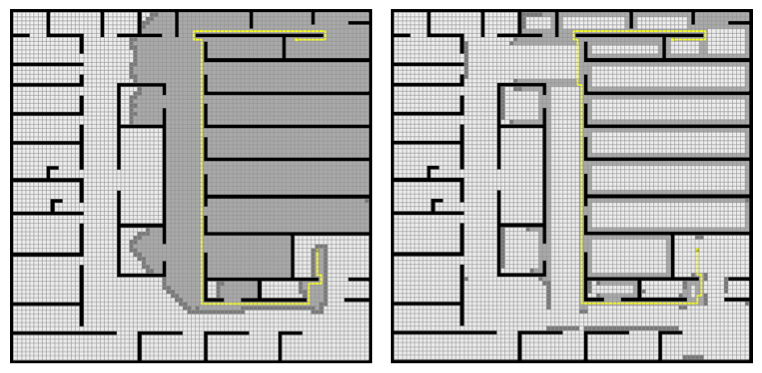
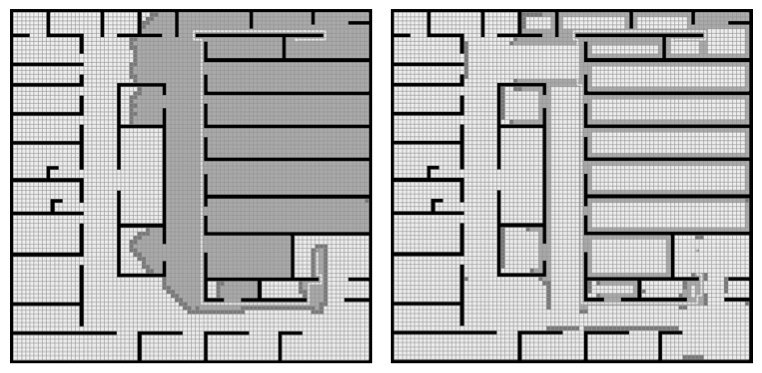
Other small touchups. Final revision before submitting to AIIDE.

Changed region(s): [[0.2415, 0.059, 0.4528, 0.8257], [0.7546, 0.118, 0.9357, 0.8257], [0.7546, 0.059, 0.9357, 0.118]]

diff --git a/papers/opthpa/search.tex b/papers/opthpa/search.tex
@@ -81,9 +81,9 @@ and $u$ moves upwards in any order.
 %	\vspace{-4pt}
 \centering
 	    \includegraphics[width=0.95\columnwidth, trim = 10mm 10mm 10mm 0mm]{diagrams/oha_contrast.png}
-		\caption{Left: A* solving a problem on an unmodified ($86\times88$) grid map. 
-		Expanded nodes are marked light grey while nodes at the frontier are dark grey.
-		Right: A* solving the same problem using our modified grid map. 
+		\caption{(Left) A* solving a problem on an unmodified ($86\times88$) grid map. 
+		Expanded nodes are marked dark grey.
+		(Right) A* solving the same problem using our modified grid map. 
 		The algorithm only considers nodes along the perimeter of the identified rooms.}
 	\label{fig-contrast}
 \end{figure}

diff --git a/papers/opthpa/introduction.tex b/papers/opthpa/introduction.tex
@@ -84,7 +84,8 @@ Further, since our method is focused on eliminating symmetries in the search spa
 search techniques, including both hierarchical and low level pathfinding systems as well as memory-based heuristics.
 We demonstrate its effectiveness by undertaking an empirical analysis on a wide range of maps, 
 including a well known set from the popular roleplaying game \emph{Baldur's Gate II}. 
-On our test data the average number of A* node expansions is reduced by up to two thirds.
+On our test data the average number of A* node expansions is reduced by up to a
+factor of three.
 We also report a corresponding search time speedup of up to four times, depending on the 
 topography of the map being used.
 % \par

diff --git a/papers/opthpa/conclusion.tex b/papers/opthpa/conclusion.tex
@@ -18,7 +18,7 @@ range of realistic game maps including one well known set from the game
 \emph{Baldur's Gate II}. 
 In many instances we are able to prune over 50\% of all nodes on a given map
 and improve the average search time performance of A* by a factor of up to 4.
-We also report up to a three-fold reduction in the number of nodes expanded
+We also report up to a factor of 3 reduction in the number of nodes expanded
 by A*.
 \par
 The performance of our method depends on the topography of individual maps: 

diff --git a/papers/opthpa/setup.tex b/papers/opthpa/setup.tex
@@ -22,7 +22,7 @@ rectangular areas that are connected by randomly placed entrances.}
         \begin{center}
                         \includegraphics[width=0.6\columnwidth, trim = 10mm 10mm 10mm 0mm]{diagrams/bgmap.png}
         \end{center}
-        \caption{An example map from BioWare's \emph{Baldur's Gate II}}
+        \caption{A map from BioWare's \emph{Baldur's Gate II}}
         \label{fig-bgmap}
  \end{figure}
 \par
